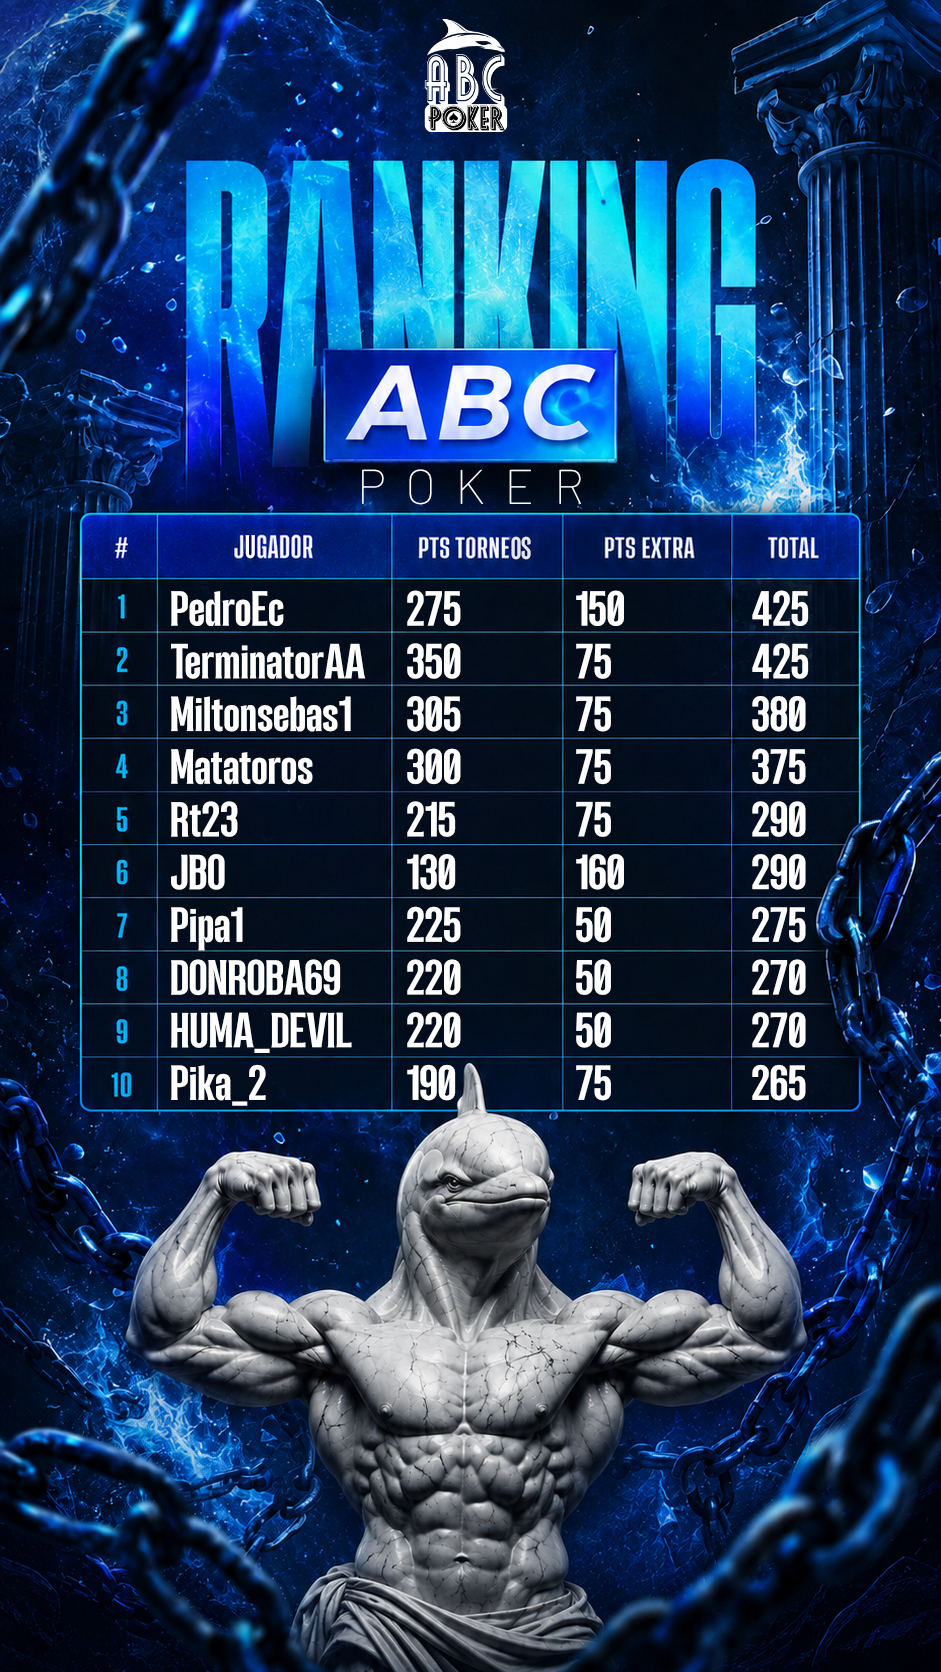
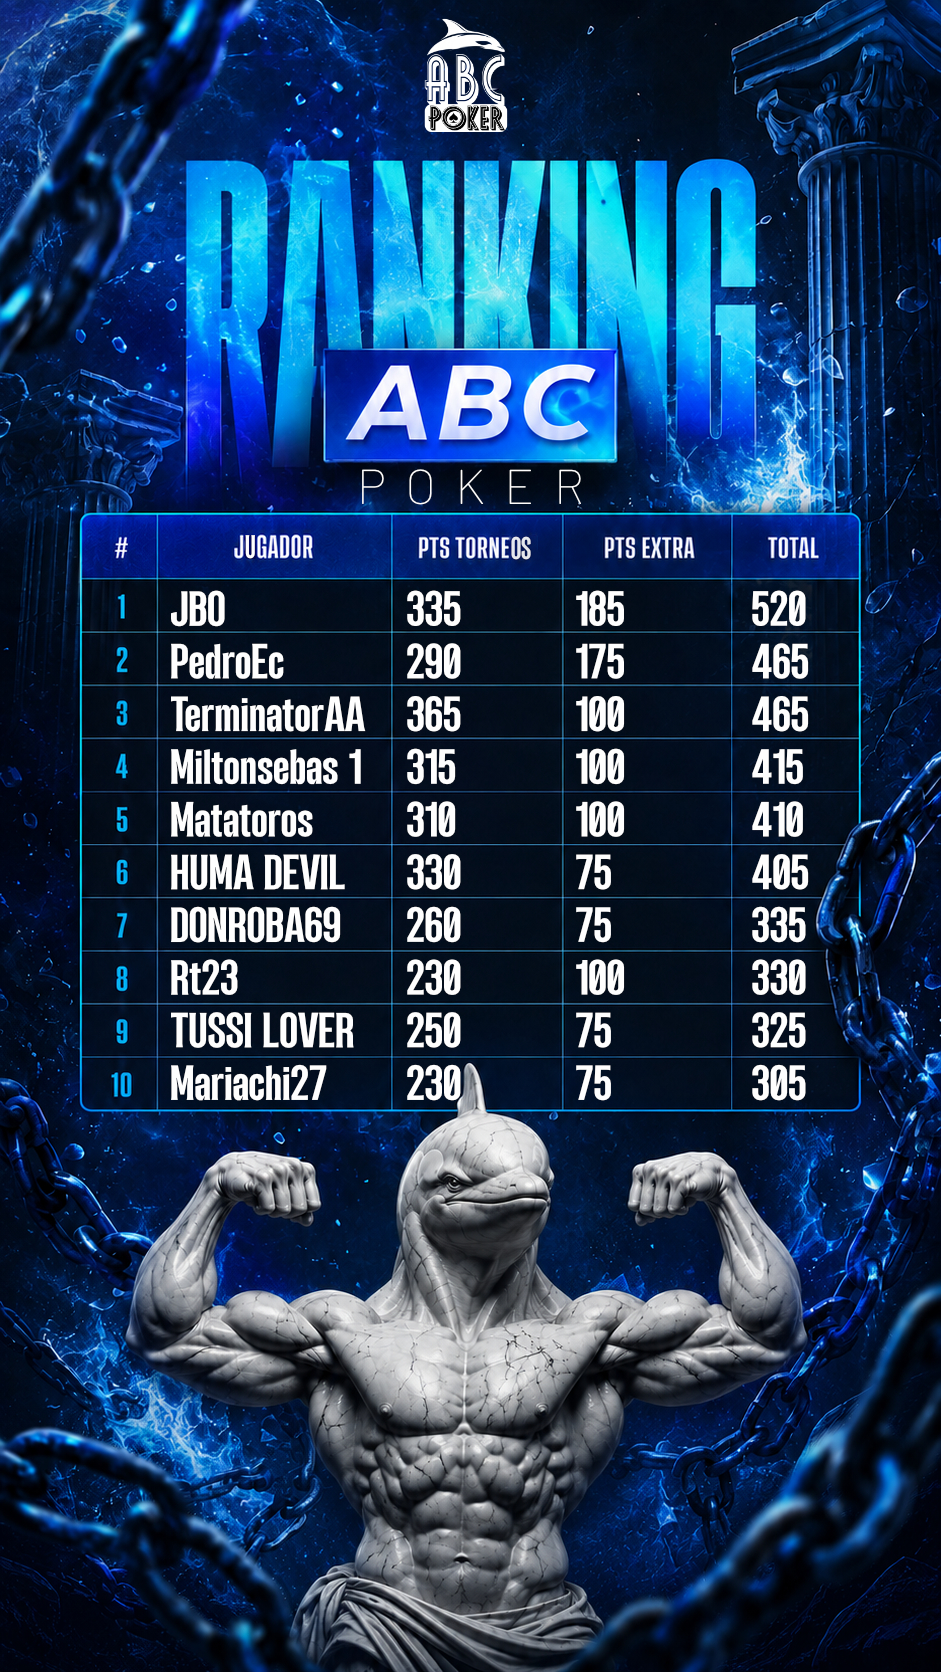
Update ABC Poker Leaderboard standings and poster image

diff --git a/index.html b/index.html
@@ -826,11 +826,11 @@
       </div>
 
       <div class="relative rounded-2xl overflow-hidden border border-cyan-500/30 shadow-2xl bg-slate-950 flex items-center justify-center">
-        <img src="/RANKINGABCC.jpg?v=4" alt="Ranking Oficial ABC Poker" class="w-full h-full object-contain max-h-[65vh]" />
+        <img src="/RANKINGABCC.jpg?v=5" alt="Ranking Oficial ABC Poker" class="w-full h-full object-contain max-h-[65vh]" />
       </div>
 
       <div class="flex items-center justify-between pt-2 text-xs text-slate-400 font-mono">
-        <span>Líder Actual: <strong class="text-amber-400">MATATOROS (335 PTS)</strong></span>
+        <span>Líder Actual: <strong class="text-amber-400">JBO (520 PTS)</strong></span>
         <button onclick="closeModal('ranking-poster-modal')" class="interactive-btn px-4 py-2 rounded-xl text-xs font-bold text-slate-950 bg-cyan-400">
           Cerrar Vista
         </button>
@@ -1102,16 +1102,16 @@
     ];
 
     const RANKING = [
-      { rank: 1, name: 'PedroEc', ptsTorneos: 275, ptsExtra: 150, total: 425, badge: 'LÍDER #1 👑' },
-      { rank: 2, name: 'TerminatorAA', ptsTorneos: 350, ptsExtra: 75, total: 425, badge: 'TOP 2 💎' },
-      { rank: 3, name: 'Miltonsebas1', ptsTorneos: 305, ptsExtra: 75, total: 380, badge: 'TOP 3 🏆' },
-      { rank: 4, name: 'Matatoros', ptsTorneos: 300, ptsExtra: 75, total: 375, badge: 'TOP 4 🔥' },
-      { rank: 5, name: 'Rt23', ptsTorneos: 215, ptsExtra: 75, total: 290, badge: 'TOP 5 ⚡' },
-      { rank: 6, name: 'JBO', ptsTorneos: 130, ptsExtra: 160, total: 290, badge: 'TOP 6 ♠' },
-      { rank: 7, name: 'Pipa1', ptsTorneos: 225, ptsExtra: 50, total: 275, badge: 'TOP 7 ♠' },
-      { rank: 8, name: 'DONROBA69', ptsTorneos: 220, ptsExtra: 50, total: 270, badge: 'TOP 8 ♠' },
-      { rank: 9, name: 'HUMA_DEVIL', ptsTorneos: 220, ptsExtra: 50, total: 270, badge: 'TOP 9 ♠' },
-      { rank: 10, name: 'Pika_2', ptsTorneos: 190, ptsExtra: 75, total: 265, badge: 'TOP 10 ♠' }
+      { rank: 1, name: 'JBO', ptsTorneos: 335, ptsExtra: 185, total: 520, badge: 'LÍDER #1 👑' },
+      { rank: 2, name: 'PedroEc', ptsTorneos: 290, ptsExtra: 175, total: 465, badge: 'TOP 2 💎' },
+      { rank: 3, name: 'TerminatorAA', ptsTorneos: 365, ptsExtra: 100, total: 465, badge: 'TOP 3 🏆' },
+      { rank: 4, name: 'Miltonsebas 1', ptsTorneos: 315, ptsExtra: 100, total: 415, badge: 'TOP 4 🔥' },
+      { rank: 5, name: 'Matatoros', ptsTorneos: 310, ptsExtra: 100, total: 410, badge: 'TOP 5 ⚡' },
+      { rank: 6, name: 'HUMA DEVIL', ptsTorneos: 330, ptsExtra: 75, total: 405, badge: 'TOP 6 ♠' },
+      { rank: 7, name: 'DONROBA69', ptsTorneos: 260, ptsExtra: 75, total: 335, badge: 'TOP 7 ♠' },
+      { rank: 8, name: 'Rt23', ptsTorneos: 230, ptsExtra: 100, total: 330, badge: 'TOP 8 ♠' },
+      { rank: 9, name: 'TUSSI LOVER', ptsTorneos: 250, ptsExtra: 75, total: 325, badge: 'TOP 9 ♠' },
+      { rank: 10, name: 'Mariachi27', ptsTorneos: 230, ptsExtra: 75, total: 305, badge: 'TOP 10 ♠' }
     ];
 
     const MERCH = [
